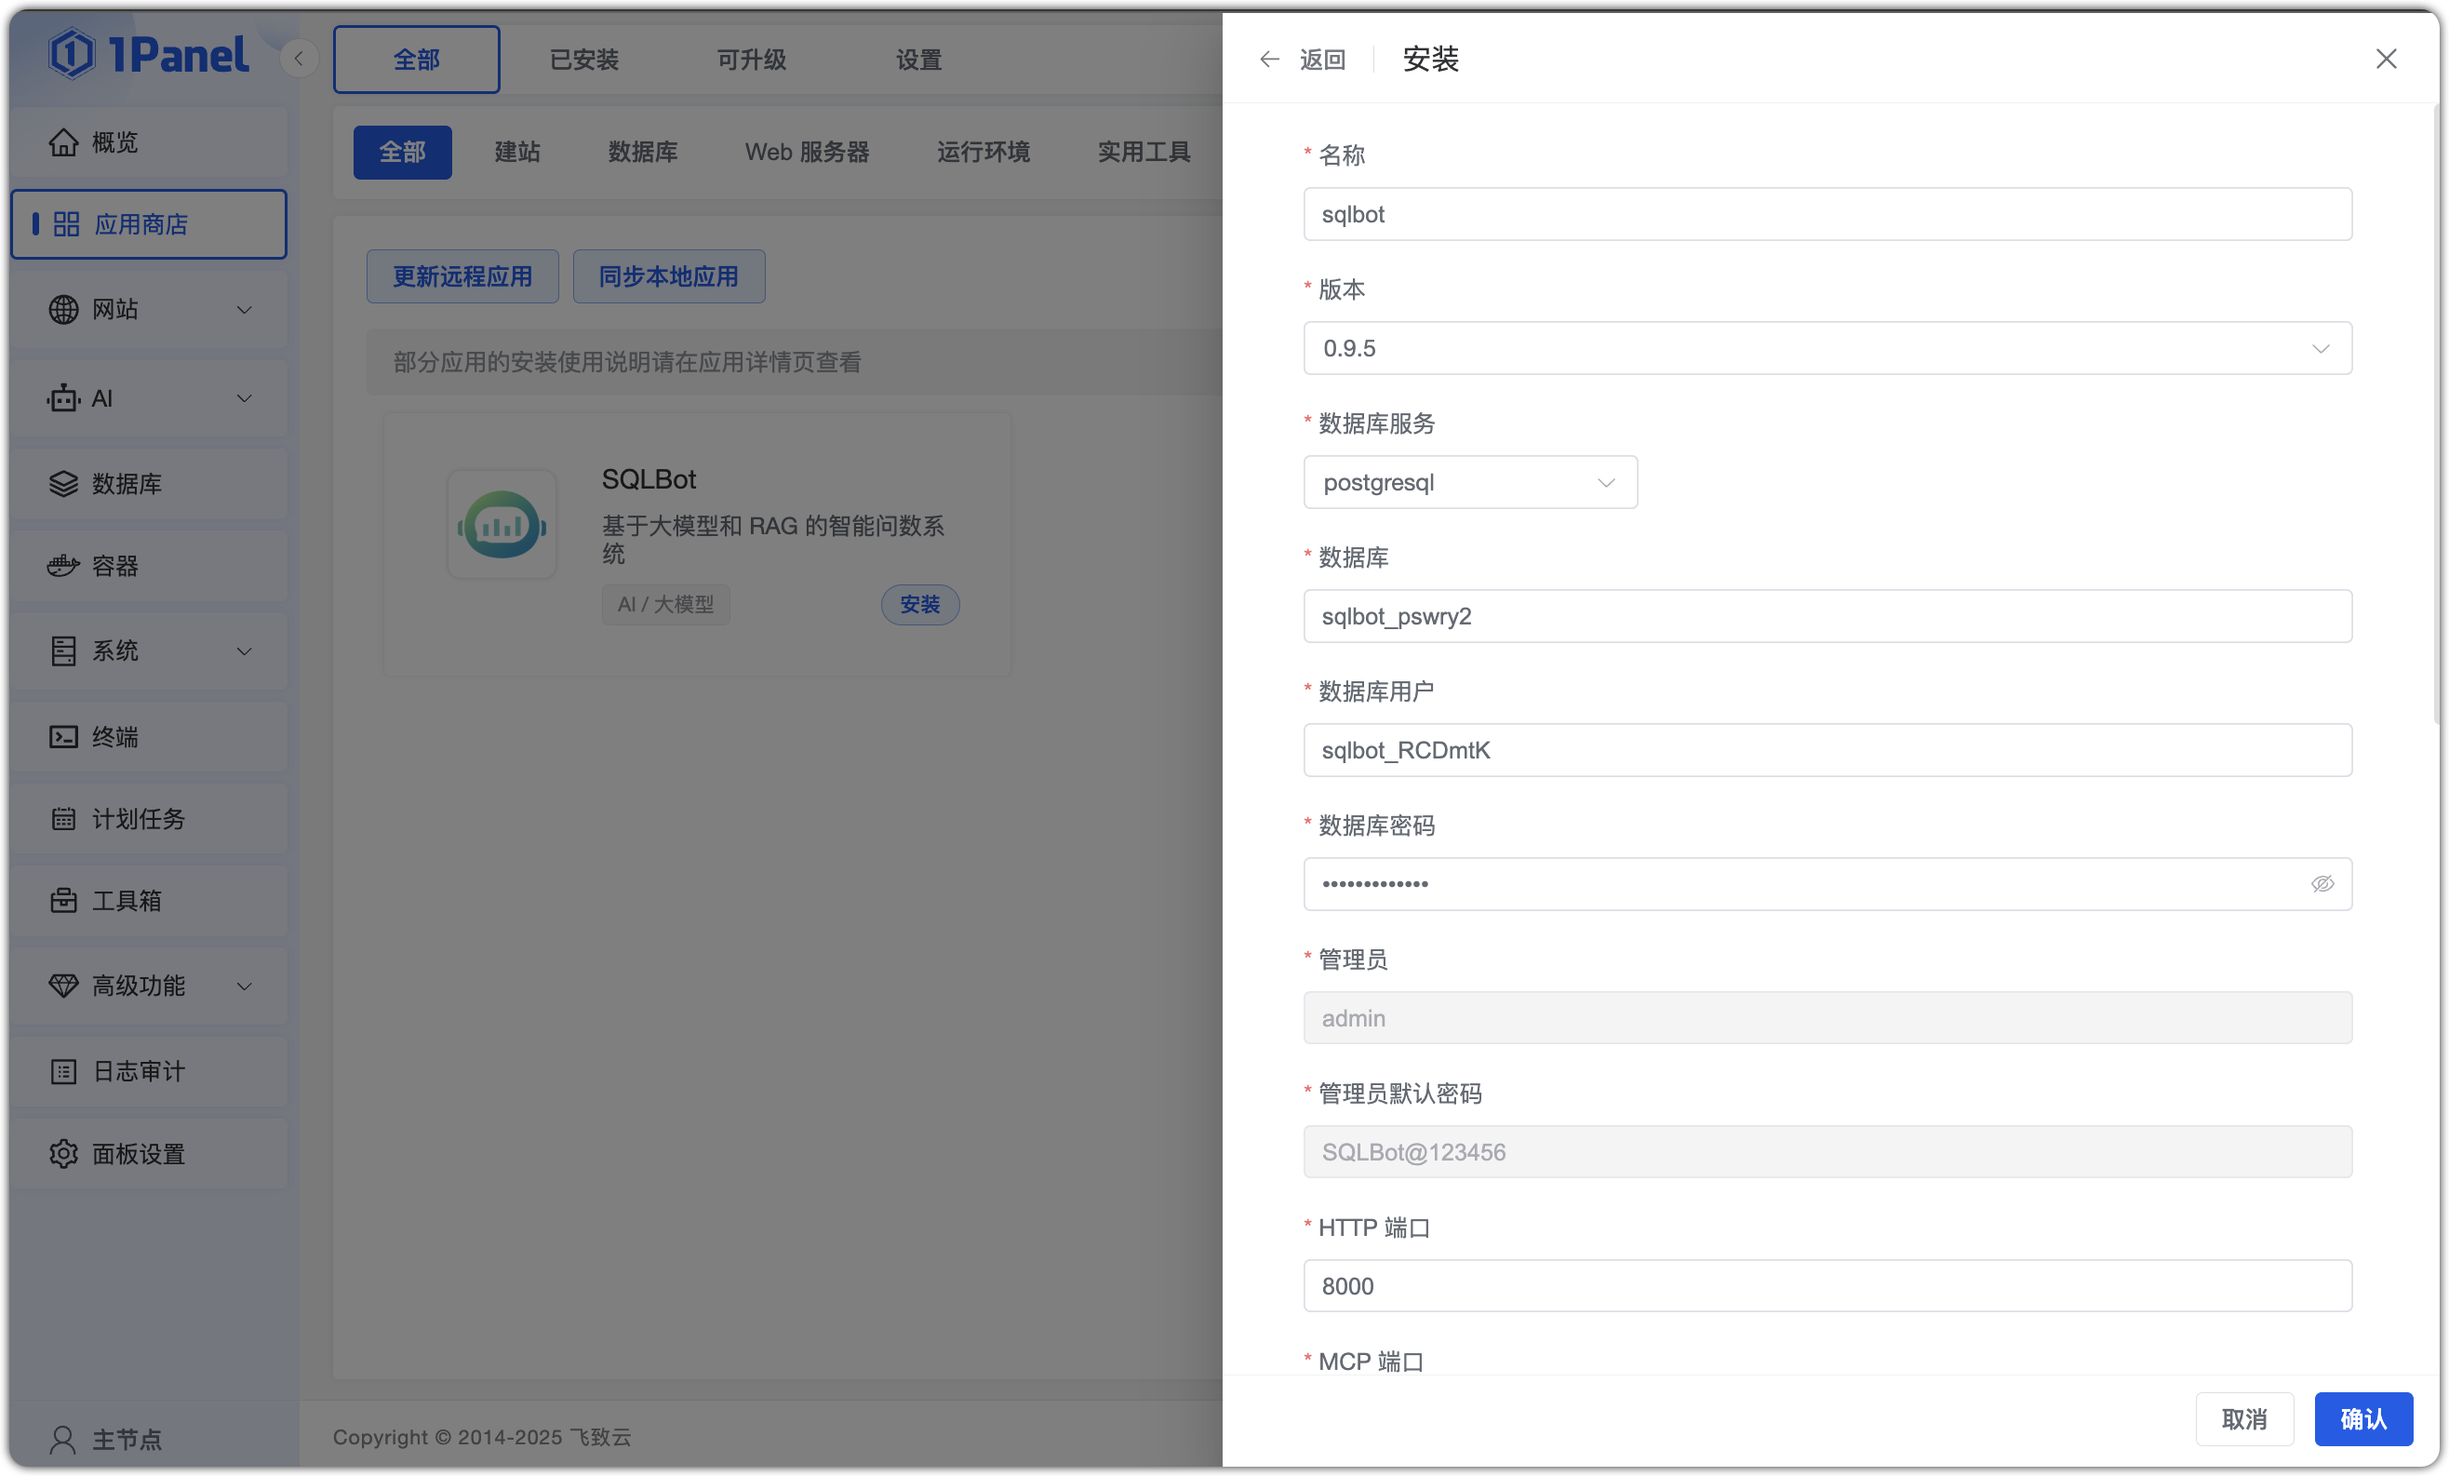
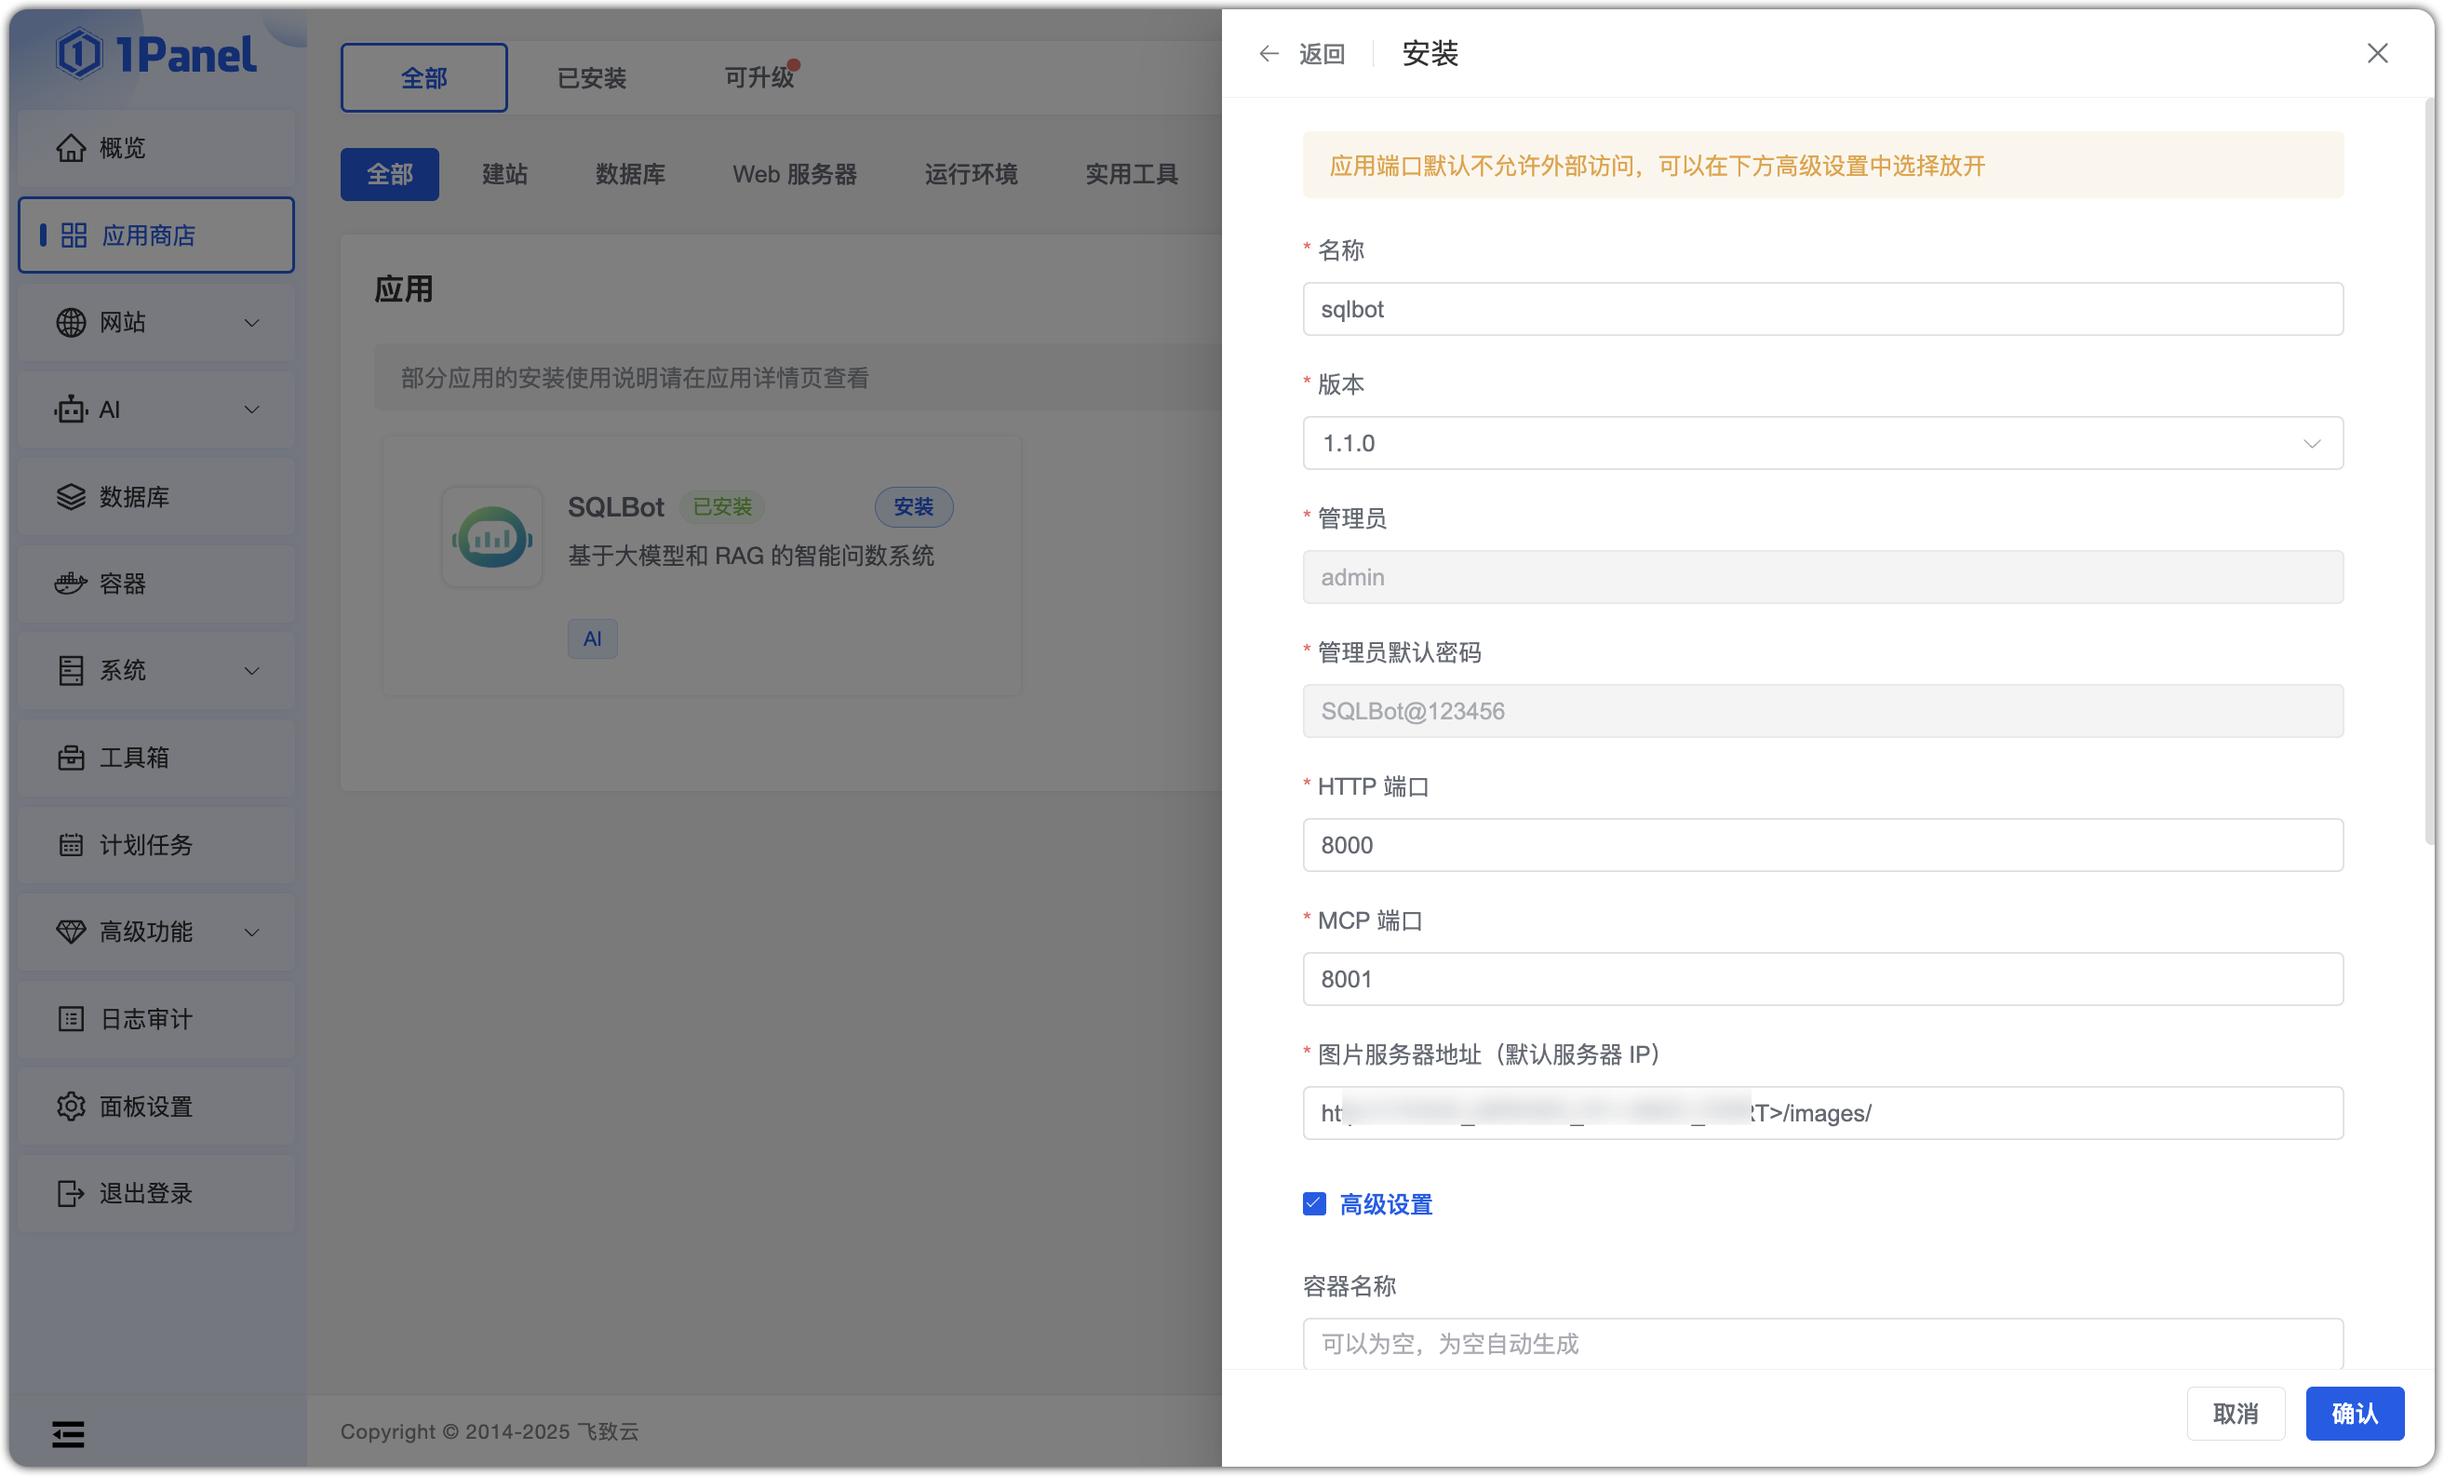
feat：更新 1P 部署

diff --git a/docs/installation/1panel_installtion.md b/docs/installation/1panel_installtion.md
@@ -6,32 +6,8 @@
 
 ![1panel](../img/installation/1panel_index.png)
 
-## 2 安装 PostgreSQL 数据库
 
-!!! Abstract ""
-    在安装 SQLBot 之前，需要先在 1Panel 上安装好所需的数据库 PostgreSQL。在应用商店中选择 PostgreSQL 点击安装，选择 17.5 版本。
-
-![安装PostgreSQL1](../img/installation/install_pgsql.png)
-
-!!! Abstract ""
-    进行参数设置，设置完成后，点击确认。
-
-    * 名称：创建的 PostgreSQL 应用的名称。
-    * 用户密码：安装的 PostgreSQL 应用的 root 用户和密码。
-    * 端口：PostgreSQL 应用的服务端口。
-    * 容器名称：PostgreSQL 应用容器名称。
-    * CPU 限制：PostgreSQL 应用可以使用的 CPU 核心数。
-    * 内存限制：PostgreSQL 应用可以使用的内存大小。
-
-![PostgreSQL参数设置](../img/installation/pgsql_info.png)
-
-!!! Abstract ""
-    点击安装，完成后页面自动跳转到已安装应用列表，等待安装的 PostgreSQL 应用状态变为已启动。
-
-
-![PostgreSQL状态](../img/installation/pgsql_success.png)
-
-## 3 安装 SQLBot
+## 2 安装 SQLBot
 
 !!! Abstract ""
     安装好 PostgreSQL 后，进入应用商店应用列表，找到 SQLBot 应用进行安装。
@@ -41,13 +17,9 @@
     在应用详情页选择最新的 SQLBot 版本进行安装，进行相关参数设置。
 
     * 名称：要创建的 SQLBot 应用的名称。
-    * 数据库服务：SQLBot 应用使用的数据库应用，支持下拉选择已安装的数据库应用，1Panel 会自动配置 SQLBot 使用 PostgreSQL 数据库。
-    * 数据库名：SQLBot 应用使用的数据库名称，SQLBot 会在选中的数据库中自动创建这个数据库。
-    * 数据库用户：SQLBot 应用使用的数据库用户名，SQLBot 会在选中的数据库中自动创建这个用户，并添加对应的数据库授权。
-    * 数据库用户密码：SQLBot 应用使用的数据库用户密码，SQLBot 会在选中的数据库中自动为上一步创建的用户配置该密码。
     * 管理员：SQLBot 应用初始化创建的超级管理员用户名。
     * 管理员密码：SQLBot 应用初始化创建的超级管理员密码（后续登录系统可以更改）。
-    * 端口：SQLBot 应用的服务端口设置为 8000。
+    * 端口：SQLBot 应用的服务端口设置为 8000,MCP 服务端口设置为 8100。
     * 图片服务器地址：**http://xx.xx.xx.xxx:8000/images/**
     * 端口外部访问：SQLBot 应用可以使用 IP:PORT 进行访问（SQLBot 应用必须打开外部端口访问）。
 
@@ -57,7 +29,7 @@
     点击开始安装后，页面自动跳转到已安装应用列表，等待安装的 SQLBot 应用状态变为已启动。
 
 ![SQLBot安装状态](../img/installation/sqlbot_success.png)
-## 4 访问 SQLBot
+## 3 访问 SQLBot
 
 !!! Abstract ""
     安装成功后即可通过浏览器访问地址 `http://目标服务器 IP 地址:8000`，并使用默认的管理员用户和密码登录 SQLBot。

diff --git a/docs/installation/online_installtion.md b/docs/installation/online_installtion.md
@@ -9,7 +9,7 @@
     * CPU/内存: 4 核 8 G
     - 磁盘空间: 100G
 
-##  端口要求
+## 2 端口要求
 
 !!! Abstract ""
 
